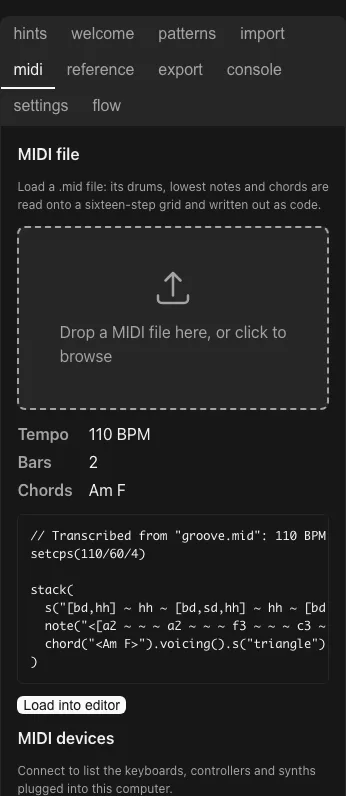
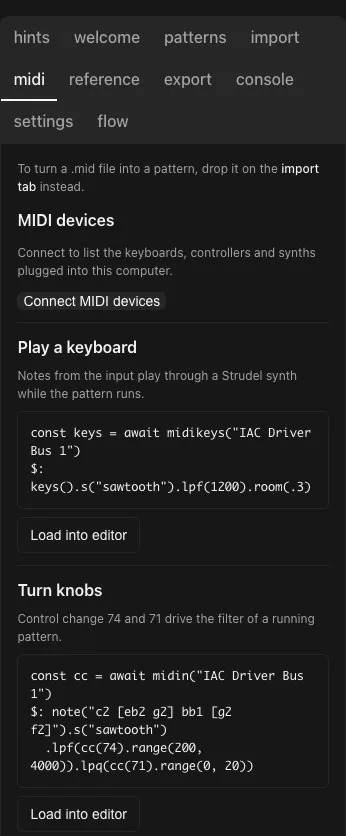
refactor: load MIDI files from the import tab only

diff --git a/src/views/Tools/StrudelEditor/tabs/ImportTab.vue b/src/views/Tools/StrudelEditor/tabs/ImportTab.vue
@@ -1,6 +1,8 @@
 <script setup lang="ts">
-import TranscriptionPanel from '../TranscriptionPanel.vue'
-import { TRANSCRIPTION_ACCEPTED_TYPES } from '../config'
+import { computed } from 'vue'
+import Button from '@/components/ui/button/Button.vue'
+import DropZone from '@/components/DropZone.vue'
+import { TRANSCRIPTION_ACCEPTED_TYPES, TRANSCRIPTION_STAGE_LABELS } from '../config'
 import type { TranscriptionProgress, TranscriptionResult, TranscriptionStatus } from '../types'
 
 const props = defineProps<{
@@ -15,24 +17,74 @@ const emit = defineEmits<{
   file: [chosenFile: File]
   load: []
 }>()
+
+const stageLabel = computed(() =>
+  props.progress === null
+    ? TRANSCRIPTION_STAGE_LABELS.decoding
+    : TRANSCRIPTION_STAGE_LABELS[props.progress.stage]
+)
+
+const chordProgression = computed(() =>
+  (props.result?.bars ?? [])
+    .map((bar) => bar.chord)
+    .filter((chord): chord is string => chord !== null)
+    .filter((chord, index, chords) => index === 0 || chords[index - 1] !== chord)
+    .join(' ')
+)
+
+const onFilesChosen = (files: FileList): void => {
+  const chosenFile = files.item(0)
+  if (chosenFile !== null) {
+    emit('file', chosenFile)
+  }
+}
+
+const onLoadRequested = (): void => {
+  emit('load')
+}
 </script>
 
 <template>
   <section class="strudel-import">
     <p class="strudel-import__intro">
-      Turn a song into a Strudel pattern. The file is analysed in your browser for its tempo, drums,
-      bass line and chords, then written out as code you can play and edit.
+      Turn a song or a MIDI file into a Strudel pattern. Audio is analysed in your browser for its
+      tempo, drums, bass line and chords; a MIDI file is read note for note. Either way it is
+      written out as code you can play and edit.
     </p>
-    <TranscriptionPanel
-      v-bind="props"
+    <DropZone
+      label="Drop an MP3, other audio or a MIDI file here, or click to browse"
       :accept="TRANSCRIPTION_ACCEPTED_TYPES"
-      drop-label="Drop an MP3 or other audio file here, or click to browse"
-      @file="emit('file', $event)"
-      @load="emit('load')"
+      @change="onFilesChosen"
     />
+
+    <div v-if="status === 'working'" class="strudel-import__progress" role="status">
+      <progress
+        class="strudel-import__progress-bar"
+        :value="progress?.fraction ?? 0"
+        max="1"
+        aria-label="Transcription progress"
+      />
+      <span class="strudel-import__stage">{{ stageLabel }}</span>
+    </div>
+    <p v-else-if="status === 'error'" class="strudel-import__error" role="alert">
+      {{ errorMessage }}
+    </p>
+    <template v-else-if="status === 'done' && result !== null">
+      <dl class="strudel-import__summary">
+        <dt>Tempo</dt>
+        <dd>{{ result.beatsPerMinute }} BPM</dd>
+        <dt>Bars</dt>
+        <dd>{{ result.bars.length }}</dd>
+        <dt>Chords</dt>
+        <dd>{{ chordProgression || 'none detected' }}</dd>
+      </dl>
+      <pre class="strudel-import__code">{{ code }}</pre>
+      <Button class="strudel-import__load" @click="onLoadRequested">Load into editor</Button>
+    </template>
+
     <p class="strudel-import__note">
-      The result is a sketch in the spirit of the track, not a copy: it hears drums, a bass line and
-      one chord per bar, and leaves the melody to you.
+      From audio, the result is a sketch in the spirit of the track, not a copy: it hears drums, a
+      bass line and one chord per bar, and leaves the melody to you.
     </p>
   </section>
 </template>
@@ -50,5 +102,62 @@ const emit = defineEmits<{
   margin: 0;
   font-size: var(--font-size-md);
   color: var(--color-muted-foreground);
+}
+
+.strudel-import__progress {
+  display: flex;
+  align-items: center;
+  gap: var(--spacing-3);
+}
+
+.strudel-import__progress-bar {
+  flex: 1;
+  accent-color: var(--color-primary);
+}
+
+.strudel-import__stage {
+  font-size: var(--font-size-sm);
+  color: var(--color-muted-foreground);
+}
+
+.strudel-import__error {
+  margin: 0;
+  color: var(--color-destructive);
+}
+
+.strudel-import__summary {
+  display: grid;
+  grid-template-columns: max-content 1fr;
+  gap: var(--spacing-1) var(--spacing-4);
+  margin: 0;
+  font-size: var(--font-size-md);
+}
+
+.strudel-import__summary dt {
+  font-weight: 600;
+  color: var(--color-muted-foreground);
+}
+
+.strudel-import__summary dd {
+  margin: 0;
+  color: var(--color-foreground);
+}
+
+.strudel-import__load {
+  align-self: flex-start;
+}
+
+.strudel-import__code {
+  margin: 0;
+  padding: var(--spacing-3);
+  max-height: 12rem;
+  overflow: auto;
+  border: 1px solid var(--color-border);
+  border-radius: var(--radius-md);
+  background: var(--color-background);
+  color: var(--color-foreground);
+  font-family: var(--font-mono);
+  font-size: var(--font-size-sm);
+  white-space: pre;
 }
 </style>

diff --git a/src/views/Tools/StrudelEditor/tabs/MidiTab.vue b/src/views/Tools/StrudelEditor/tabs/MidiTab.vue
@@ -1,22 +1,9 @@
 <script setup lang="ts">
 import { computed } from 'vue'
 import Button from '@/components/ui/button/Button.vue'
-import TranscriptionPanel from '../TranscriptionPanel.vue'
-import { MIDI_ACCEPTED_TYPES } from '../config'
 import { createMidiSnippets, useMidiDevices } from '../useMidiDevices'
-import type { TranscriptionProgress, TranscriptionResult, TranscriptionStatus } from '../types'
-
-const props = defineProps<{
-  status: TranscriptionStatus
-  progress: TranscriptionProgress | null
-  result: TranscriptionResult | null
-  code: string
-  errorMessage: string
-}>()
 
 const emit = defineEmits<{
-  file: [chosenFile: File]
-  load: []
   code: [patternCode: string]
 }>()
 
@@ -41,19 +28,11 @@ const onConnect = (): void => {
 
 <template>
   <section class="strudel-midi">
-    <h3 class="strudel-midi__heading">MIDI file</h3>
     <p class="strudel-midi__intro">
-      Load a .mid file: its drums, lowest notes and chords are read onto a sixteen-step grid and
-      written out as code.
+      To turn a .mid file into a pattern, drop it on the
+      <a class="strudel-midi__link" href="#import">import tab</a>
+      instead.
     </p>
-    <TranscriptionPanel
-      v-bind="props"
-      :accept="MIDI_ACCEPTED_TYPES"
-      drop-label="Drop a MIDI file here, or click to browse"
-      @file="emit('file', $event)"
-      @load="emit('load')"
-    />
-
     <h3 class="strudel-midi__heading">MIDI devices</h3>
     <p v-if="midiDeviceStatus !== 'ready'" class="strudel-midi__intro">
       {{ DEVICE_STATUS_MESSAGES[midiDeviceStatus] }}
@@ -98,6 +77,10 @@ const onConnect = (): void => {
   margin: 0;
   font-size: var(--font-size-md);
   font-weight: 600;
+  color: var(--color-foreground);
+}
+
+.strudel-midi__link {
   color: var(--color-foreground);
 }
 

diff --git a/src/views/Tools/StrudelEditor/tabs/ImportTab.test.ts b/src/views/Tools/StrudelEditor/tabs/ImportTab.test.ts
@@ -26,7 +26,7 @@ const mountTab = (overrides: Partial<InstanceType<typeof ImportTab>['$props']> =
   })
 
 describe('ImportTab', () => {
-  it('offers a drop zone for audio files', () => {
+  it('offers a drop zone for audio and MIDI files', () => {
     // Arrange
     const wrapper = mountTab()
 
@@ -35,6 +35,7 @@ describe('ImportTab', () => {
 
     // Assert
     expect(fileInput.attributes('accept')).toContain('.mp3')
+    expect(fileInput.attributes('accept')).toContain('.mid')
     expect(wrapper.text()).toContain('Drop an MP3')
   })
 
@@ -62,7 +63,7 @@ describe('ImportTab', () => {
     const wrapper = mountTab({ status: 'working', progress })
 
     // Act
-    const stage = wrapper.find('.strudel-transcription__stage')
+    const stage = wrapper.find('.strudel-import__stage')
 
     // Assert
     expect(stage.text()).toBe(expectedLabel)
@@ -79,10 +80,10 @@ describe('ImportTab', () => {
       ?.trigger('click')
 
     // Assert
-    const summary = wrapper.find('.strudel-transcription__summary').text()
+    const summary = wrapper.find('.strudel-import__summary').text()
     expect(summary).toContain('126 BPM')
     expect(summary).toContain('Am F')
-    expect(wrapper.find('.strudel-transcription__code').text()).toBe('setcps(126/60/4)')
+    expect(wrapper.find('.strudel-import__code').text()).toBe('setcps(126/60/4)')
     expect(wrapper.emitted('load')).toHaveLength(1)
   })
 

diff --git a/src/views/Tools/StrudelEditor/config.ts b/src/views/Tools/StrudelEditor/config.ts
@@ -384,7 +384,7 @@ export const STRUDEL_TABS: { id: StrudelTabId; label: string }[] = [
 export const TRANSCRIPTION_SAMPLE_RATE = 22050
 export const TRANSCRIPTION_MAX_SECONDS = 90
 export const TRANSCRIPTION_MAX_BARS = 64
-export const TRANSCRIPTION_ACCEPTED_TYPES = 'audio/*,.mp3,.wav,.ogg,.m4a,.flac'
+export const TRANSCRIPTION_ACCEPTED_TYPES = 'audio/*,.mp3,.wav,.ogg,.m4a,.flac,.mid,.midi'
 
 export const ONSET_FRAME_SIZE = 1024
 export const ONSET_HOP_SIZE = 512
@@ -400,7 +400,6 @@ export const TEMPO_MAX_BPM = 180
 export const TEMPO_PRIOR_CENTER_BPM = 120
 export const TEMPO_PRIOR_WIDTH_OCTAVES = 1
 
-export const MIDI_ACCEPTED_TYPES = '.mid,.midi,audio/midi,audio/x-midi'
 export const MIDI_DEFAULT_BEATS_PER_MINUTE = 120
 /** General MIDI percussion keys folded onto the three drums the transcription writes. */
 export const MIDI_DRUM_SOUNDS: Record<number, DrumSound> = {

diff --git a/src/views/Tools/StrudelEditor/StrudelEditor.vue b/src/views/Tools/StrudelEditor/StrudelEditor.vue
@@ -361,17 +361,7 @@ onBeforeUnmount(() => {
             @file="onFileChosen"
             @load="loadTranscription"
           />
-          <MidiTab
-            v-else-if="activeTab === 'midi'"
-            :status="transcriptionStatus"
-            :progress="transcriptionProgress"
-            :result="transcriptionResult"
-            :code="transcribedCode"
-            :error-message="transcriptionError"
-            @file="onFileChosen"
-            @load="loadTranscription"
-            @code="updatePatternCode"
-          />
+          <MidiTab v-else-if="activeTab === 'midi'" @code="updatePatternCode" />
           <ReferenceTab v-else-if="activeTab === 'reference'" />
           <ExportTab
             v-else-if="activeTab === 'export'"

diff --git a/documentation/docs/guides/strudel-editor.md b/documentation/docs/guides/strudel-editor.md
@@ -27,8 +27,8 @@ flow tab:
   pattern can open in a new tab. The name field at the top saves the code in the editor under
   that name, in local storage; a save is linked like the rest, as `#saved-<name>`, saving under
   a name already used replaces it, and its cross deletes it.
-- **import**: turn an MP3 or other audio file into a pattern (below)
-- **midi**: turn a MIDI file into a pattern, and play or drive MIDI devices (below)
+- **import**: turn an MP3, other audio or a MIDI file into a pattern (below)
+- **midi**: play or drive MIDI devices (below)
 - **reference**: function quick list
 - **export**: render the code offline to a WAV file (below)
 - **console**: evaluation log
@@ -271,8 +271,8 @@ is assembled from parts rather than strudel.cc's ready-made one is in
 
 ## Turning a MIDI file into a pattern
 
-The **midi** tab takes a `.mid` file the same way: drop it or click to browse. Notes are read
-straight from the file instead of heard, so the result is exact rather than a sketch:
+Drop a `.mid` file on the same **import** tab. Notes are read straight from the file instead of
+heard, so the result is exact rather than a sketch:
 
 | Layer  | Read as                                                                            |
 | ------ | ---------------------------------------------------------------------------------- |
@@ -284,9 +284,11 @@ The tempo is the file's first tempo, and notes are placed by their ticks, so a t
 the file never shifts them off the grid. Up to 64 bars are read. **Load into editor** replaces the
 code, as with audio.
 
-![The midi tab after loading a two-bar file, with the device snippets below](/img/strudel-editor/midi-tab.webp)
+## MIDI devices
 
-Below the file drop, **Connect MIDI devices** asks the browser for Web MIDI access and lists the
+![The midi tab with its Connect MIDI devices button and the three device snippets](/img/strudel-editor/midi-tab.webp)
+
+On the **midi** tab, **Connect MIDI devices** asks the browser for Web MIDI access and lists the
 inputs and outputs it finds, following devices as they are plugged in. Three snippets load
 straight into the editor, already naming the first device found:
 
